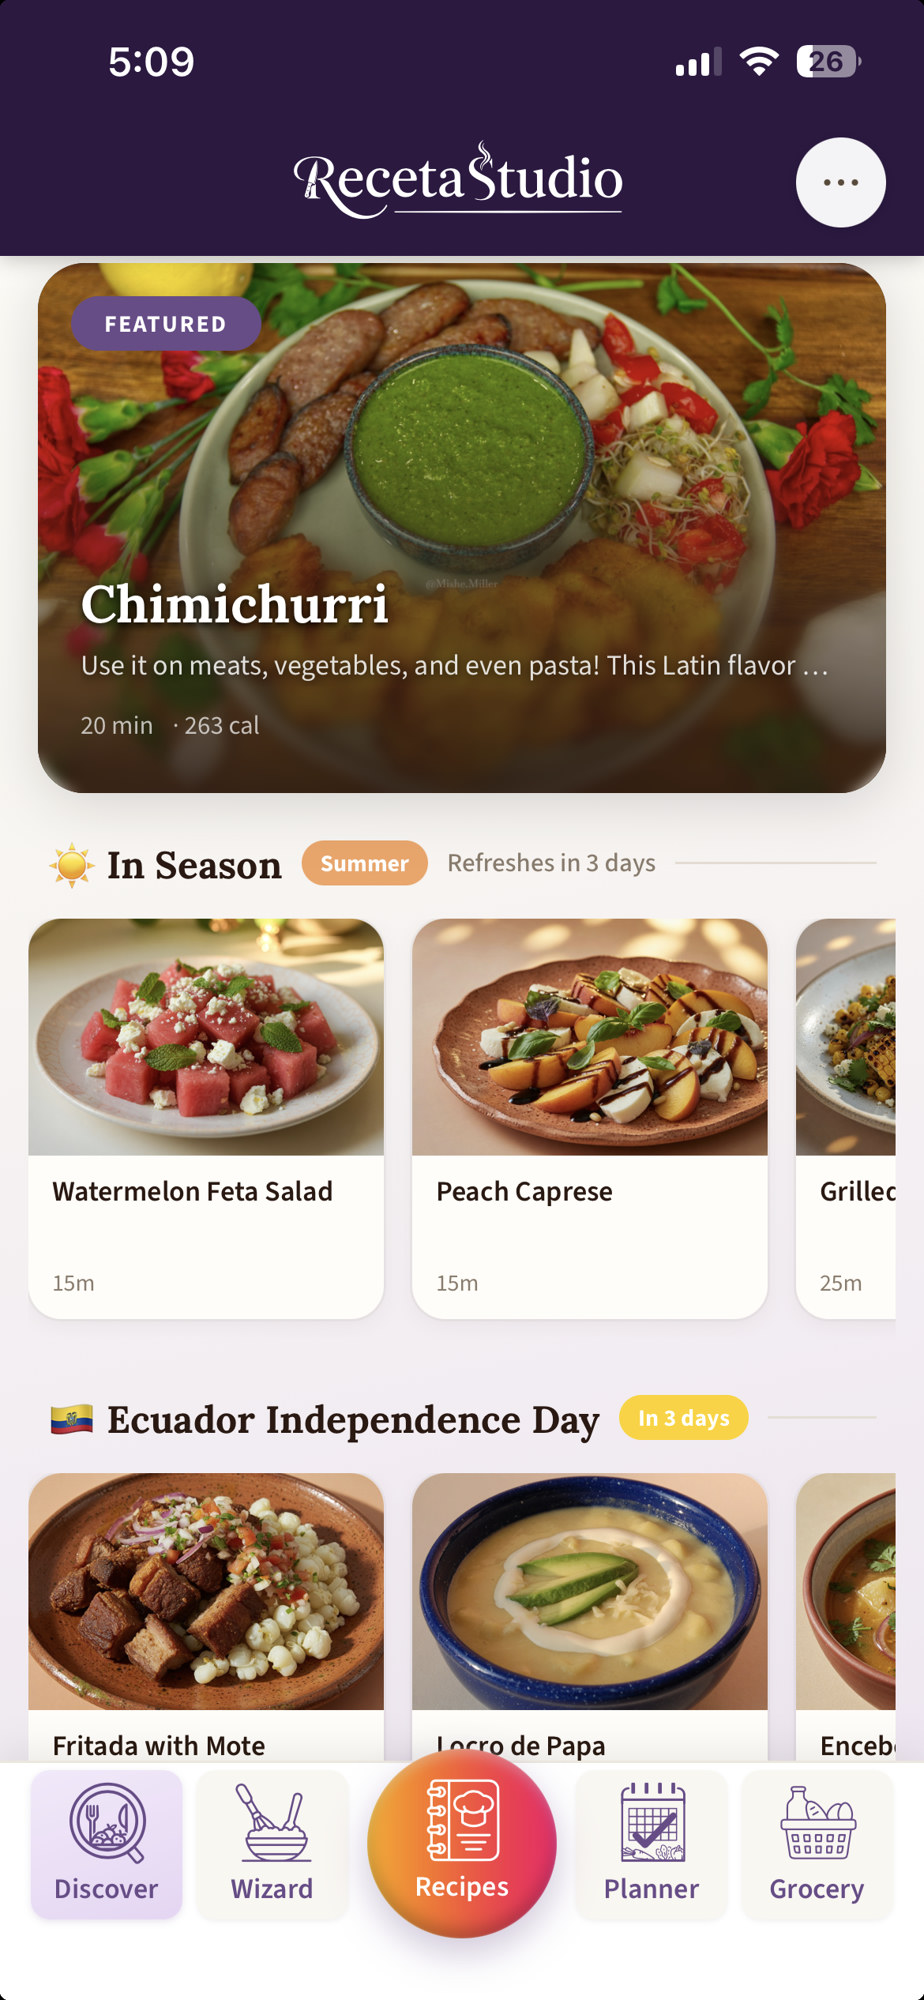
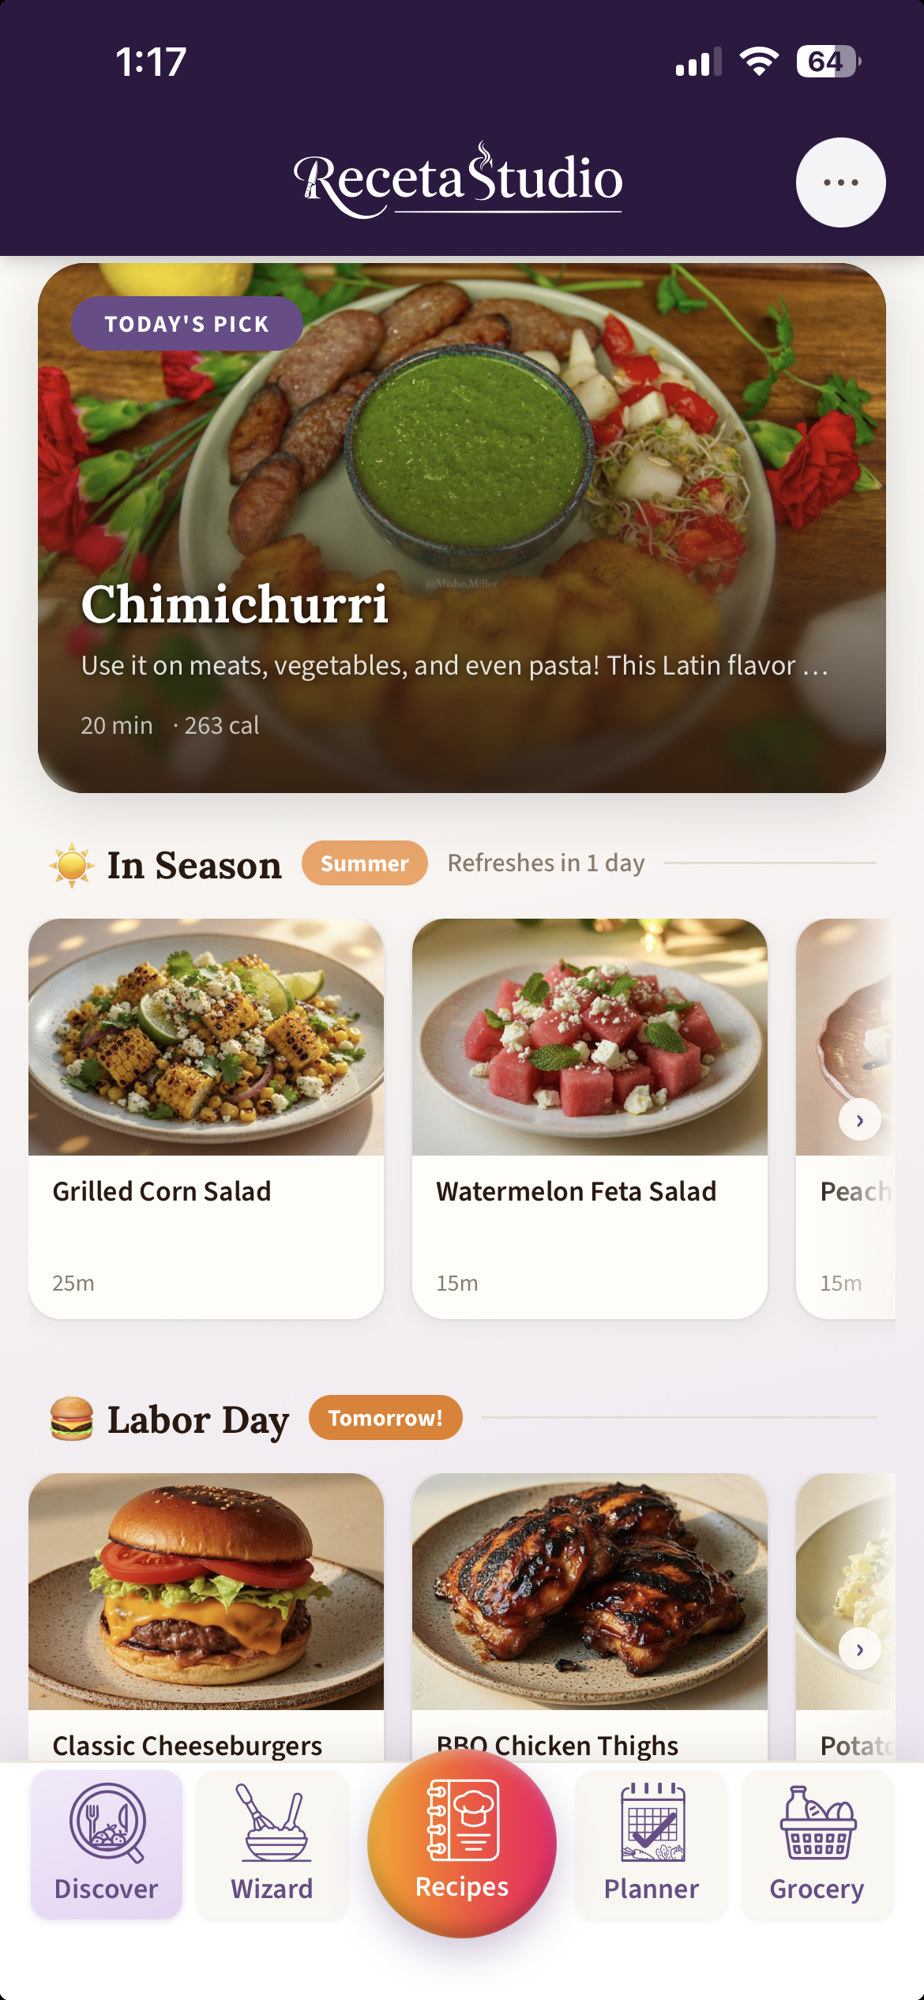
Put Labor Day on Discover.
The phone screenshot now shows Labor Day, and the holiday plates follow it — cheeseburgers, BBQ chicken, grilled corn — so the section matches what more people will recognize.

diff --git a/index.html b/index.html
@@ -30,7 +30,7 @@
   <link rel="preconnect" href="https://fonts.googleapis.com" />
   <link rel="preconnect" href="https://fonts.gstatic.com" crossorigin />
   <link href="https://fonts.googleapis.com/css2?family=Lora:ital,wght@0,500;0,600;0,700;1,500;1,600&family=Source+Sans+3:ital,wght@0,400;0,500;0,600;0,700;1,400&display=swap" rel="stylesheet" />
-  <link rel="stylesheet" href="./css/site.css?v=20260906e" />
+  <link rel="stylesheet" href="./css/site.css?v=20260906f" />
 </head>
 <body class="is-loading">
   <div class="loader" id="loader" aria-hidden="true">
@@ -254,14 +254,14 @@
         <div class="chapter-copy">
           <p class="kicker" data-i18n="discover.kicker">Discover</p>
           <h2 class="display" data-i18n="discover.title">What’s in season. What’s on the holiday. What’s for this&nbsp;week.</h2>
-          <p class="lede" data-i18n="discover.body">Summer salads, Independence Day plates, Tuesday&nbsp;dinner — the kitchen follows the&nbsp;calendar.</p>
+          <p class="lede" data-i18n="discover.body">Summer salads, Labor Day plates, Tuesday&nbsp;dinner — the kitchen follows the&nbsp;calendar.</p>
           <div class="lenses" role="list">
             <button class="lens is-on" type="button" role="listitem" data-band="season" aria-pressed="true">
               <span class="lens-photo"><img src="./assets/food/watermelon.jpg" alt="" /></span>
               <strong data-i18n="discover.lens.season">In season</strong>
             </button>
             <button class="lens" type="button" role="listitem" data-band="holiday" aria-pressed="false">
-              <span class="lens-photo"><img src="./assets/food/fritada.jpg" alt="" /></span>
+              <span class="lens-photo"><img src="./assets/food/cheeseburger.jpg" alt="" /></span>
               <strong data-i18n="discover.lens.holiday">On the holiday</strong>
             </button>
             <button class="lens" type="button" role="listitem" data-band="featured" aria-pressed="false">
@@ -286,16 +286,16 @@
               <figcaption>Ceviche de camarón</figcaption>
             </figure>
             <figure class="rail-card plate-1" data-band="holiday">
-              <img src="./assets/food/fritada.jpg" alt="Fritada with mote" />
-              <figcaption>Fritada con mote</figcaption>
+              <img src="./assets/food/cheeseburger.jpg" alt="Classic cheeseburger" />
+              <figcaption>Cheeseburgers</figcaption>
             </figure>
             <figure class="rail-card plate-2" data-band="holiday">
-              <img src="./assets/food/locro.jpg" alt="Locro de papa" />
-              <figcaption>Locro de papa</figcaption>
+              <img src="./assets/food/bbq-chicken.jpg" alt="BBQ chicken thighs" />
+              <figcaption>BBQ chicken</figcaption>
             </figure>
             <figure class="rail-card plate-3" data-band="holiday">
-              <img src="./assets/food/empanadas.jpg" alt="Empanadas" />
-              <figcaption>Empanadas</figcaption>
+              <img src="./assets/food/grilled-corn.jpg" alt="Grilled corn salad" />
+              <figcaption>Grilled corn</figcaption>
             </figure>
             <figure class="rail-card plate-1" data-band="featured">
               <img src="./assets/atmosphere/chimichurri.jpg" alt="Chimichurri plate" />
@@ -313,7 +313,7 @@
           <figure class="device device-discover">
             <div class="device-bezel">
               <span class="device-island"></span>
-              <img src="./assets/screens/discover.jpg" alt="Discover: Chimichurri featured, In Season, and Ecuador Independence Day." />
+              <img src="./assets/screens/discover.jpg" alt="Discover: Chimichurri, In Season, and Labor Day." />
             </div>
           </figure>
         </div>
@@ -544,6 +544,6 @@
     </div>
   </footer>
 
-  <script src="./js/site.js?v=20260906e"></script>
+  <script src="./js/site.js?v=20260906f"></script>
 </body>
 </html>

diff --git a/js/site.js b/js/site.js
@@ -64,12 +64,12 @@
       "import.share": "Share from any app on iPhone and Android.",
       "discover.kicker": "Discover",
       "discover.title": "What’s in season. What’s on the holiday. What’s for this\u00A0week.",
-      "discover.body": "Summer salads, Independence Day plates, Tuesday\u00A0dinner — the kitchen follows the\u00A0calendar.",
+      "discover.body": "Summer salads, Labor Day plates, Tuesday\u00A0dinner — the kitchen follows the\u00A0calendar.",
       "discover.lens.season": "In season",
       "discover.lens.holiday": "On the holiday",
       "discover.lens.featured": "Featured",
       "discover.live.season": "Summer · refreshes with the season",
-      "discover.live.holiday": "Ecuador Independence Day · the table already knows",
+      "discover.live.holiday": "Labor Day · the table already knows",
       "discover.live.featured": "Chimichurri · on the counter tonight",
       "cook.kicker": "Cook Mode",
       "cook.title": "Hands on the pan. Big type on the\u00A0counter.",
@@ -166,12 +166,12 @@
       "import.share": "Comparte desde cualquier app en iPhone y Android.",
       "discover.kicker": "Descubrir",
       "discover.title": "Lo de la temporada. Lo del feriado. Lo de esta\u00A0semana.",
-      "discover.body": "Ensaladas de verano, platos de Independencia, la cena del\u00A0martes — la cocina sigue el\u00A0calendario.",
+      "discover.body": "Ensaladas de verano, platos de Labor Day, la cena del\u00A0martes — la cocina sigue el\u00A0calendario.",
       "discover.lens.season": "De temporada",
       "discover.lens.holiday": "En el feriado",
       "discover.lens.featured": "Destacado",
       "discover.live.season": "Verano · vuelve con la temporada",
-      "discover.live.holiday": "Independencia del Ecuador · la mesa ya lo sabe",
+      "discover.live.holiday": "Labor Day · la mesa ya lo sabe",
       "discover.live.featured": "Chimichurri · en el mesón esta noche",
       "cook.kicker": "Modo cocina",
       "cook.title": "Las manos en la olla. Letra grande en el\u00A0mesón.",

diff --git a/404.html b/404.html
@@ -4,7 +4,7 @@
   <meta charset="utf-8" />
   <meta name="viewport" content="width=device-width, initial-scale=1" />
   <title>Receta Studio — page not found</title>
-  <link rel="stylesheet" href="./css/site.css?v=20260906e" />
+  <link rel="stylesheet" href="./css/site.css?v=20260906f" />
   <style>
     .miss { min-height: 100svh; display: grid; place-items: center; text-align: center; padding: 80px 24px; background: #2E1842; color: #FFFDF9; }
     .miss a { color: #E8D5F5; }

diff --git a/css/site.css b/css/site.css
@@ -822,7 +822,7 @@ body:not(.is-loading) .loader {
   pointer-events: none;
 }
 .lens[data-band="season"] img { object-position: 50% 58%; }
-.lens[data-band="holiday"] img { object-position: 48% 40%; }
+.lens[data-band="holiday"] img { object-position: 50% 46%; }
 .lens[data-band="featured"] img { object-position: 50% 46%; }
 .lens strong {
   display: block;
